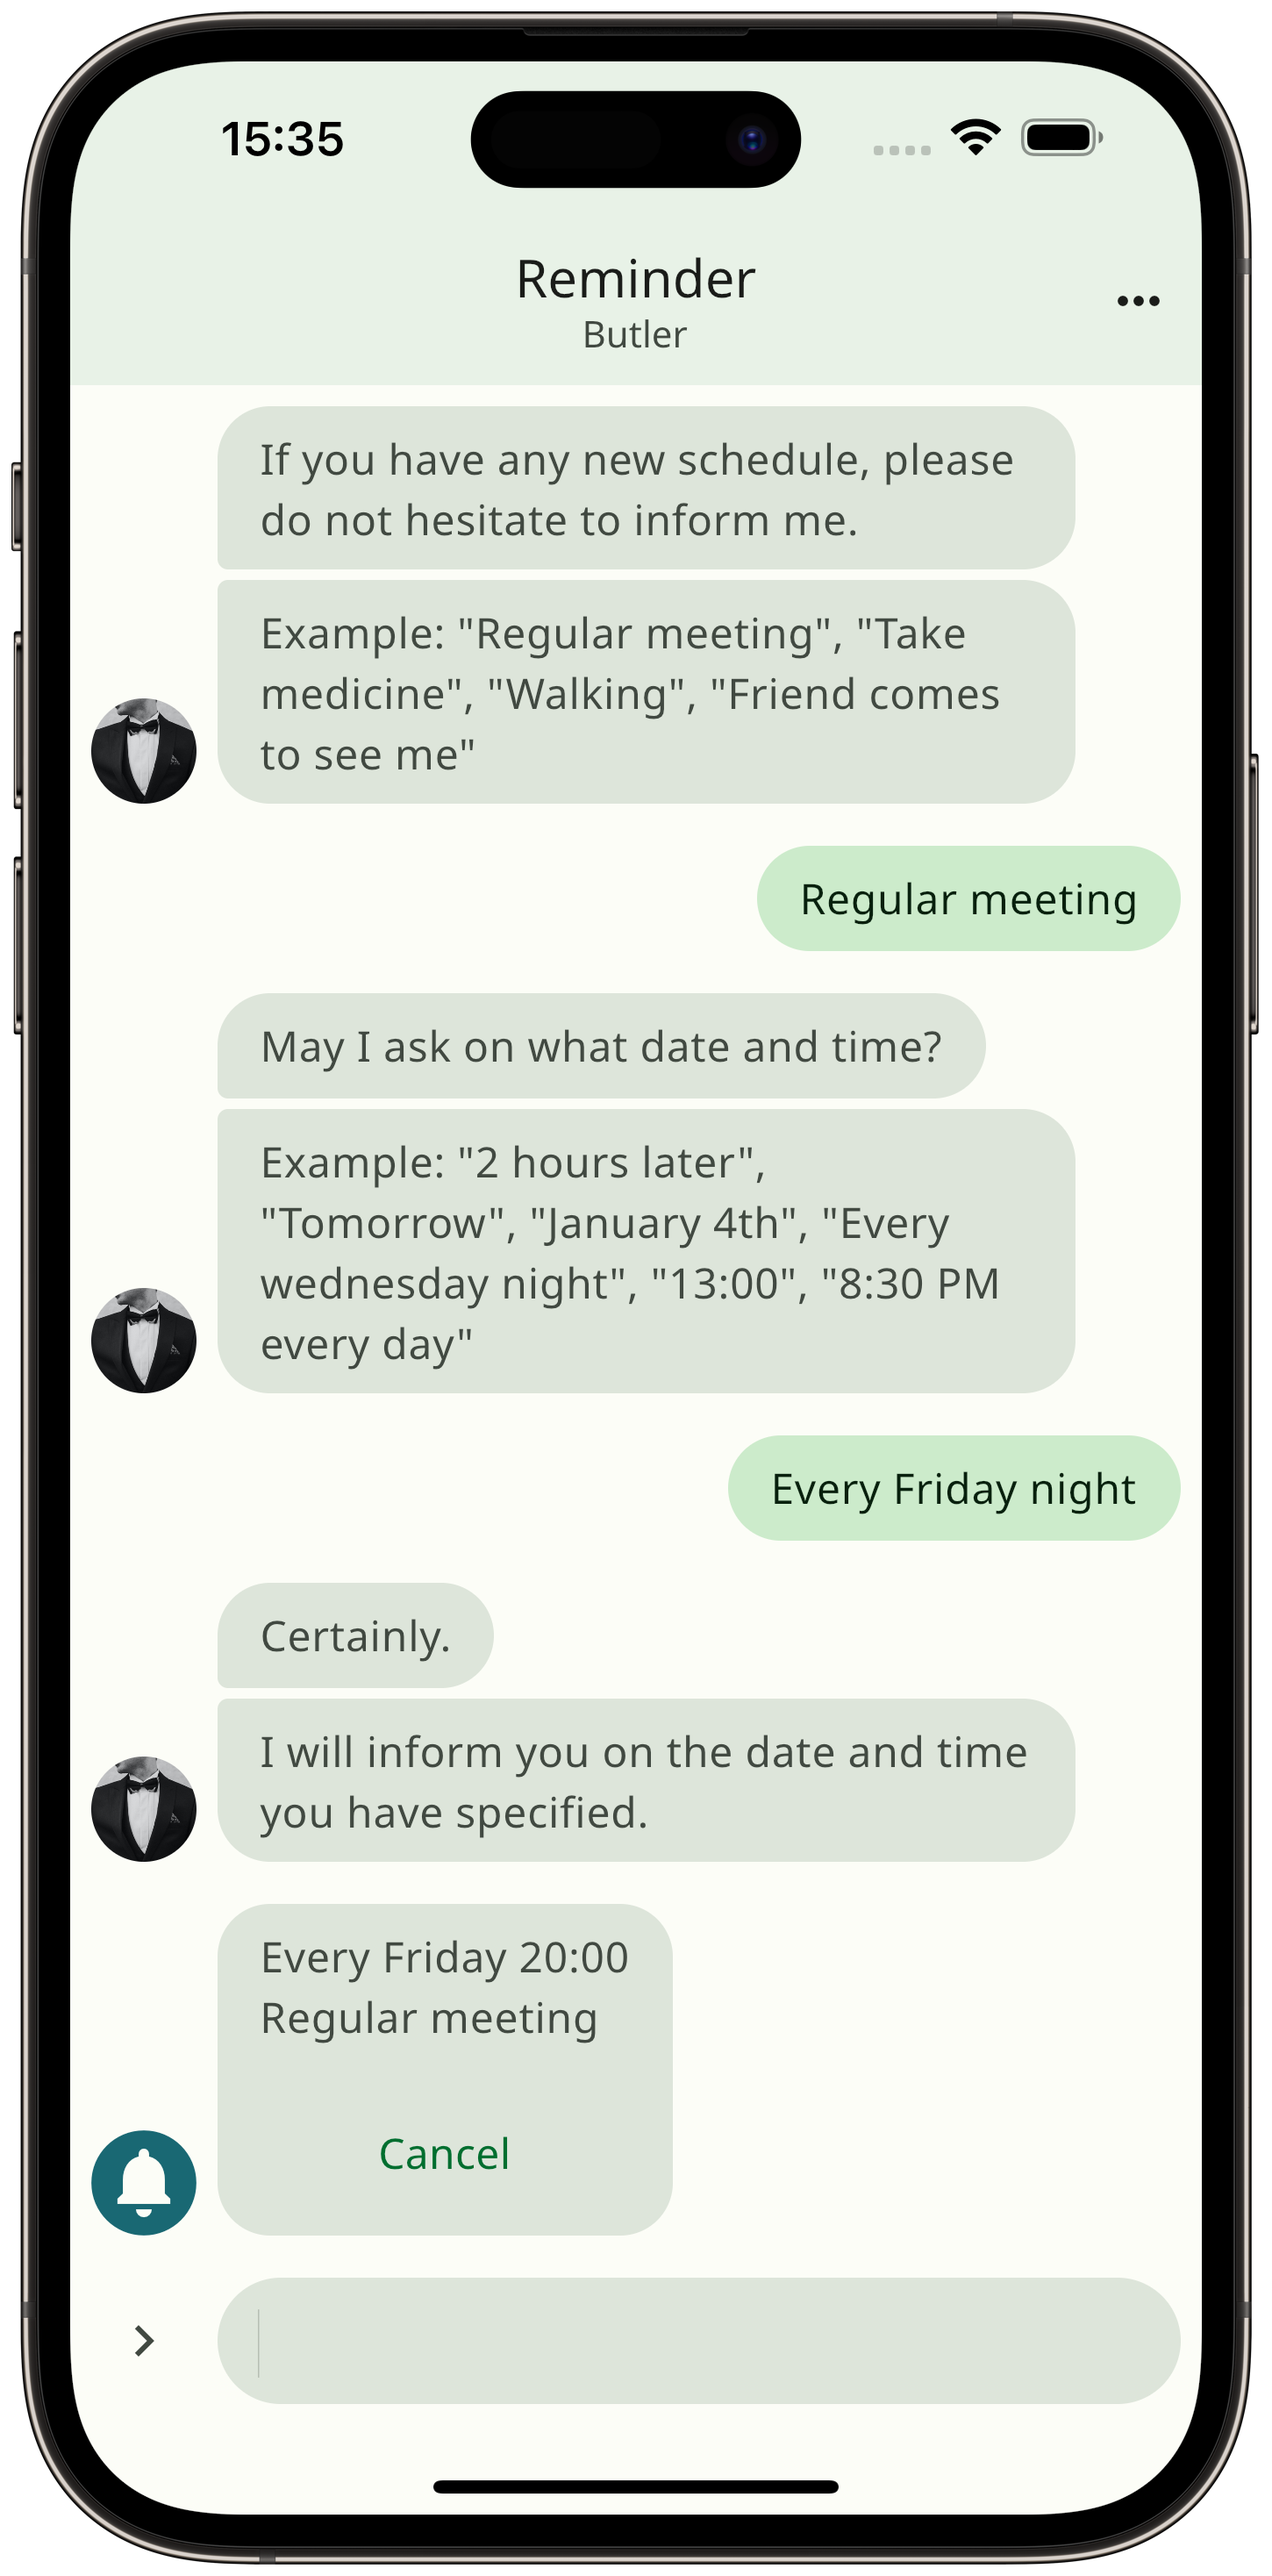
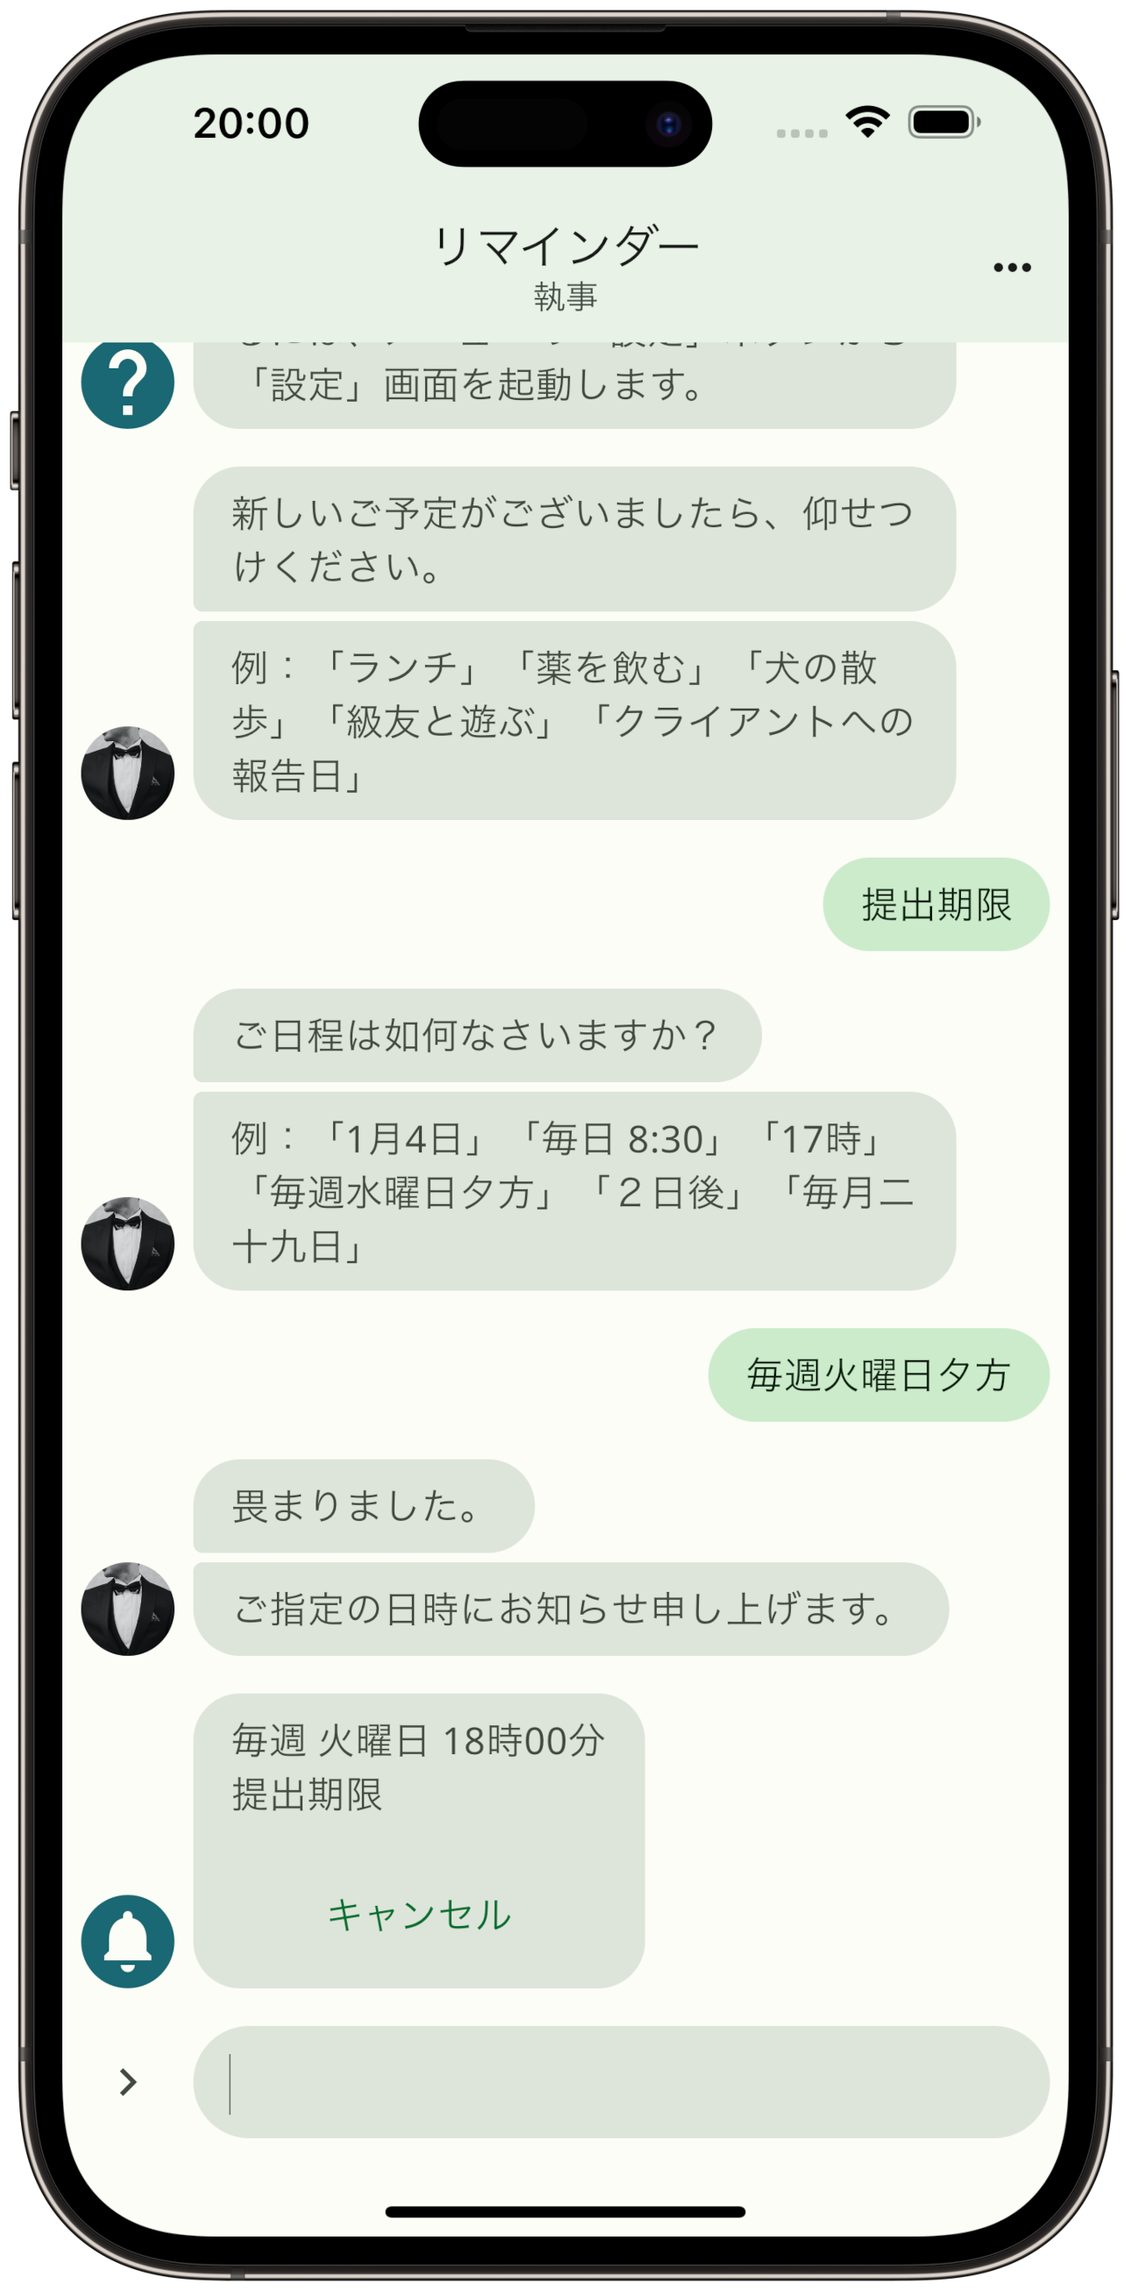
feat: ja

Changed region(s): [[0.062, 0.093, 0.9302, 0.8683], [0.155, 0.031, 0.2791, 0.062]]

diff --git a/products/reminderbutler/lp/ja/index.html b/products/reminderbutler/lp/ja/index.html
@@ -1,50 +1,50 @@
 <!DOCTYPE html>
 <html>
 <head>
-    <title>Reminder Butler</title>
+    <title>備忘執事</title>
     <link rel="stylesheet" type="text/css" href="style.css">
     <link rel="stylesheet" href="https://cdnjs.cloudflare.com/ajax/libs/font-awesome/5.15.3/css/all.min.css" integrity="sha512-W7pPC1toU6ZSbj6PlYU2K3U6mvUT5x5J5H5+5HIzgfyLjw5Za/m/XZJWhYc+oKgggksusIZIL+m++5C5/5xQIA==" crossorigin="anonymous" referrerpolicy="no-referrer" />
     <meta charset="UTF-8" name="viewport" content="width=device-width" initial-scale="1">
 </head>
 <body>
 <header>
-    <h1>Reminder Butler</h1>
+    <h1>備忘執事</h1>
 </header>
 <main>
     <div class="container">
         <div class ="smartphone-container">
             <section id="smartphone">
                 <img src="smartphone.png" alt="Smartphone" class="phone-image">
-                <p class="smartphone-msg">Stay on top of your schedule with Reminder Butler!</p>
+                <p class="smartphone-msg">大切なタスクを忘れることはありません。</p>
             </section>
         </div>
         <div class ="text-container">
             <section id="hero">
-            <h2>AI butler for easy scheduling</h2>
-                <p>Meet Reminder Butler, your personal AI for scheduling reminders. With an intuitive chat interface, you can easily communicate your reminders and set them up with ease.</p><br>
+            <h2>個性的な AI 執事とチャットで楽しくスケジュール管理</h2>
+                <p>備忘執事は、スケジュール・リマインダーのための個人用 AI 執事です。直感的な対話型のチャットインターフェースで、リマインダーを簡単に伝えて設定できます。好きな写真で AI 執事のアバターをカスタマイズし、セリフを変更して会話を個性化することもできます（好きなアイドルや愛猫に！）。備忘執事で大切なタスクや予定を忘れることはもうありません。</p><br>
                 <a href="#download">
                     <img src="appleIcon.png" class="appIcon-image">
                 </a>
             </section>
             <section id="features">
             <h2>Features</h2>
-            <ul>
-                <li>Intuitively register reminders through chat conversations with an AI butler</li>
-                <li>Registration is easy - just tell the AI butler the date and time of the desired reminder through chat</li>
-                <li>The AI butler remembers the chat conversations and notifies you with local notifications when the scheduled time arrives</li>
-                <li>Scheduled reminders communicated to the AI butler can be easily checked with a single phrase</li>
-                <li>The avatar image of the AI butler can be changed to a preferred photo</li>
-                <li>Each response from the AI butler within the chat conversation can be freely changed</li>
+            <ul style="list-style-type: disc;">
+                <li>AI 執事とチャットの対話形式でリマインダーを直感的に登録</li>
+                <li>リマインドして欲しい予定と日時を AI 執事にチャットで伝えるだけなので登録が簡単</li>
+                <li>AI 執事はチャットの会話を覚えていて、予定の日時になったらローカル通知でお知らせ</li>
+                <li>AI 執事に伝えた予定は一言でいつでも確認可能</li>
+                <li>AI 執事のアバター画像はお好みの写真に変更可能</li>
+                <li>チャットの対話内で AI 執事が応答する各セリフは自由に変更可能</li>
             </ul>
             </section>
             <section id="download">
                 <h2>Download</h2>
-                <p>Download it today and never miss a deadline!</p>
+                <p>備忘執事をダウンロードして、日々の生活をコントロールしましょう！</p>
                 <div class="download-buttons">
-                    <a href="https://apps.apple.com/us/app/reminder-butler/id6448690076" target="_blank">
+                    <a href="https://apps.apple.com/jp/app/reminder-butler/id6448690076" target="_blank">
                       <img src="iphoneImg.svg" class="apple-budge" alt="Download on the App Store" />
                     </a>
-                    <a href='https://play.google.com/store/apps/details?id=cutboss.reminder.butler&hl=en' target="_blank" >
+                    <a href='https://play.google.com/store/apps/details?id=cutboss.reminder.butler&hl=ja' target="_blank" >
                        <img src='googleImg.png' class="google-budge" alt='Google Playで手に入れよう' />
                     </a>
                 </div>
@@ -55,10 +55,10 @@
 <footer>
     <div class="policy-and-contact">
         <div class="policy">
-            <a href="https://note.com/reminder_butler/n/nfe39550a2afb" class="policy">Terms of Service and Privacy Policy</a>
+            <a href="https://note.com/reminder_butler/n/n0e9403fe4dba" class="policy">利用規約・プライバシーポリシー</a>
         </div>
         <div class="contact">
-            <a href="mailto:reminder.butler.appmaster@gmail.com" class="contact">Contact</a>
+            <a href="mailto:reminder.butler.appmaster+lp+ja@gmail.com" class="contact">お問い合わせ</a>
         </div>
     </div>
     <p>&copy; 2023 Reminder Butler All rights reserved.</p>

diff --git a/products/reminderbutler/lp/index.html b/products/reminderbutler/lp/index.html
@@ -58,7 +58,7 @@
             <a href="https://note.com/reminder_butler/n/nfe39550a2afb" class="policy">Terms of Service and Privacy Policy</a>
         </div>
         <div class="contact">
-            <a href="mailto:reminder.butler.appmaster@gmail.com" class="contact">Contact</a>
+            <a href="mailto:reminder.butler.appmaster+lp+en@gmail.com" class="contact">Contact</a>
         </div>
     </div>
     <p>&copy; 2023 Reminder Butler All rights reserved.</p>
